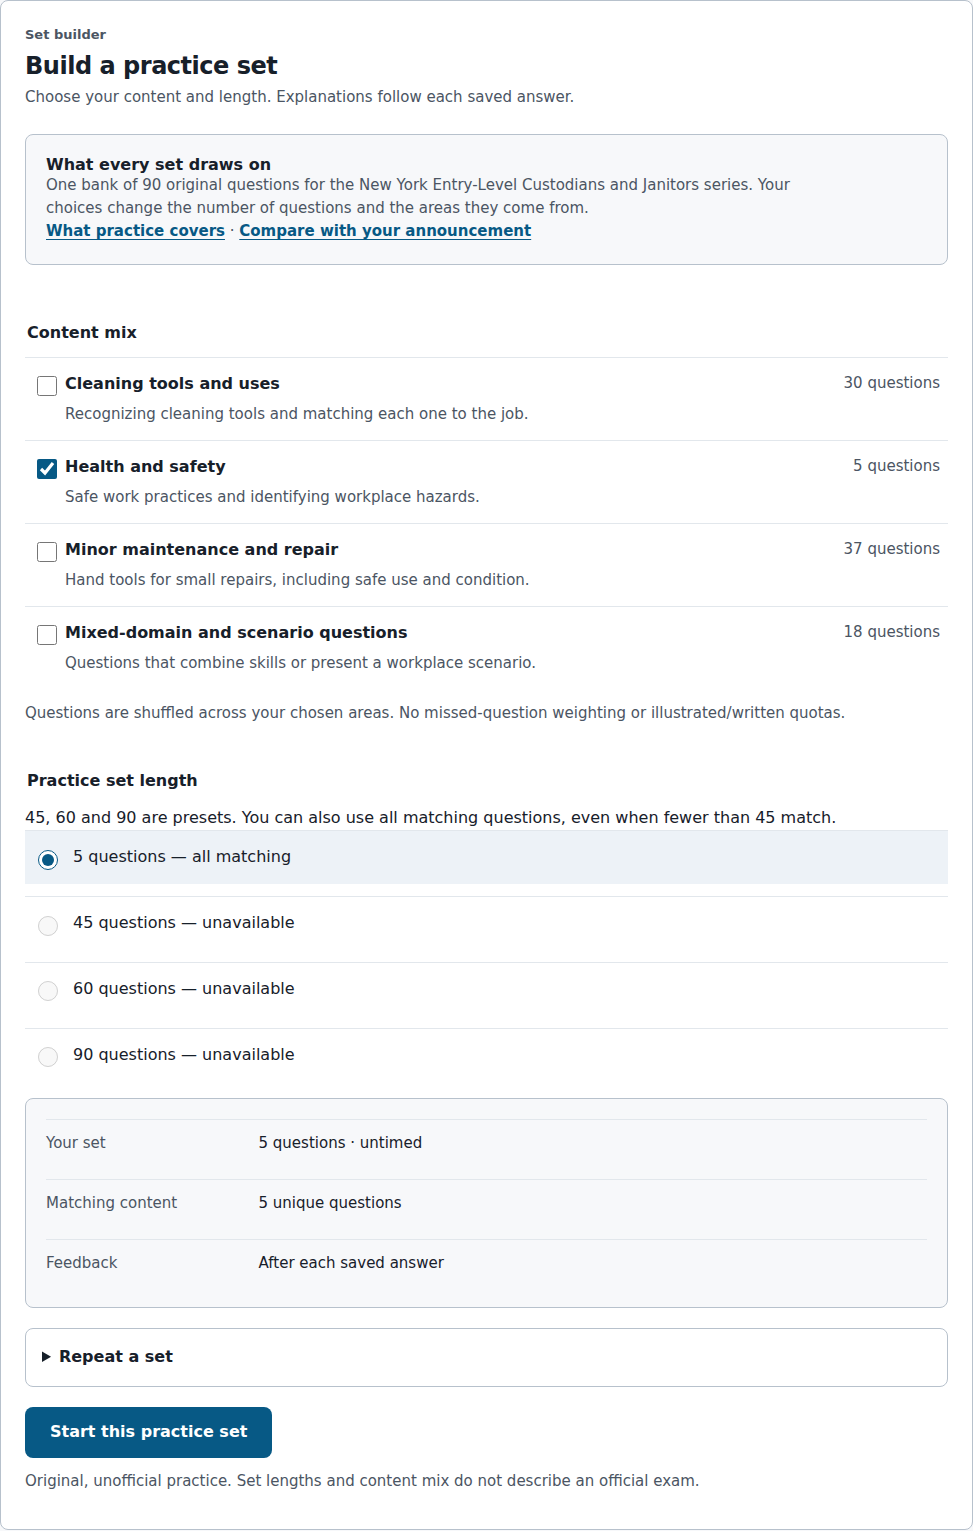
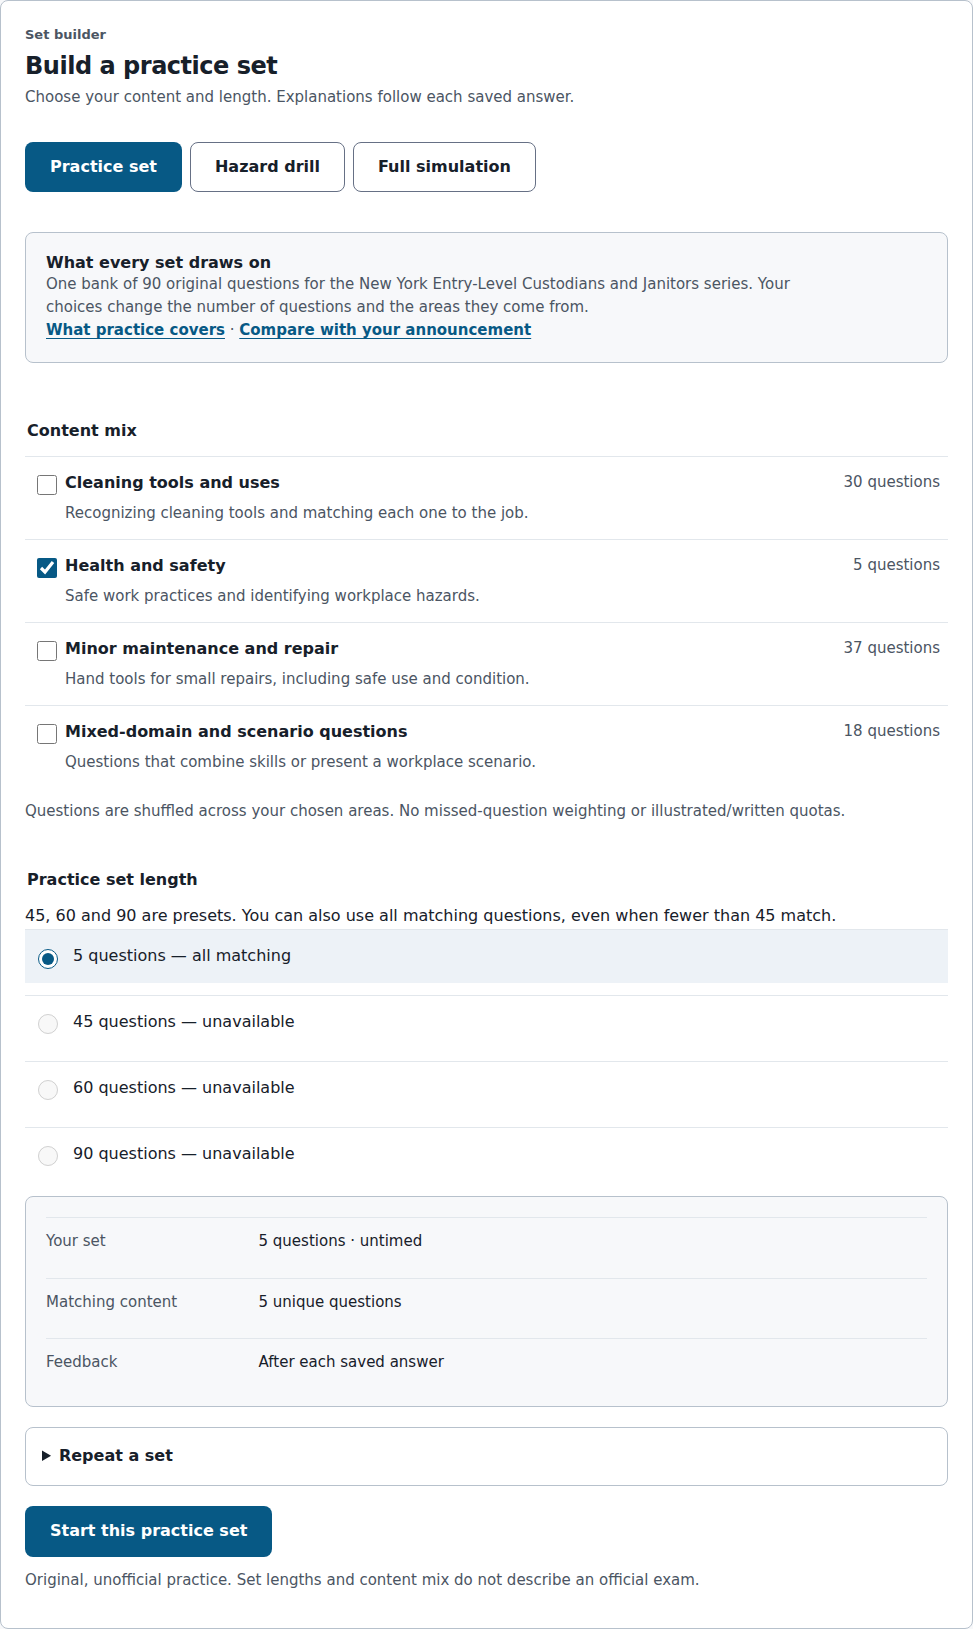
Share setup navigation across Practice, Hazard drill and Simulation

diff --git a/apps/site/scripts/generate-pages.tsx b/apps/site/scripts/generate-pages.tsx
@@ -1,3 +1,4 @@
+import { setupDestinations } from "../src/practice/setup-navigation.ts"
 import { questionCategoryFromSafeMetadata } from "../src/question-category.ts"
 import { ReviewQuestionBootstrap, type ReviewQuestionSource } from "../src/review/model.ts"
 import { createHash } from "node:crypto"
@@ -1505,6 +1506,7 @@ const buildPages = ({
     body: `
   <main class="page-shell" id="main-content" tabindex="-1">
     ${breadcrumb([{ label: "Hazards" }])}
+    <nav class="setup-navigation" aria-label="Practice setup">${setupDestinations.map(({ id, label, href }) => `<a class="button ${id === "hazards" ? "button-primary" : "button-secondary"}" href="${href}"${id === "hazards" ? ' aria-current="page"' : ""}>${label}</a>`).join("")}</nav>
     <section class="hero"><p class="eyebrow">${scenes.length} hazard scenes</p><h1>Scan the whole workplace before you decide.</h1><p>Each scene starts with a neutral description only. Which conditions are hazards — and which are safe as shown — is revealed, with corrections and sources, only after you submit your response.</p><div class="question-controls"><a class="button button-primary" href="/hazards/session/${manifest.releaseId}/scene/1/">Start visual scene 1</a><a class="button button-secondary" href="/hazards/session/${manifest.releaseId}-nonvisual/scene/1/">Start keyboard scene 1 (no image)</a></div></section>
     <section class="section-gap"><h2>Environments in this release</h2><ul class="tag-list">${[...new Set(scenes.map(({ value }) => value.environment))].map((environment) => `<li>${escapeHtml(environment)}</li>`).join("")}</ul></section>
   </main>`

diff --git a/apps/site/browser-tests/practice-builder.pw.ts b/apps/site/browser-tests/practice-builder.pw.ts
@@ -40,3 +40,16 @@ test("an invalid custom set link cannot fall through to a normal answer form", a
   await expect(page.getByRole("heading", { name: "This practice set is unavailable" })).toBeVisible()
   await expect(page.getByRole("button", { name: "Save answer", exact: true })).toHaveCount(0)
 })
+
+test("setup navigation connects Practice, Hazard drill and Simulation with real links", async ({ page }) => {
+  await page.goto("/practice/#practice-builder")
+  const navigation = page.getByRole("navigation", { name: "Practice setup", exact: true })
+  await expect(navigation.getByRole("link", { name: "Practice set", exact: true })).toHaveAttribute("aria-current", "page")
+  await navigation.getByRole("link", { name: "Hazard drill", exact: true }).click()
+  await expect(page).toHaveURL(/\/hazards\/$/)
+  await expect(navigation.getByRole("link", { name: "Hazard drill", exact: true })).toHaveAttribute("aria-current", "page")
+  await navigation.getByRole("link", { name: "Full simulation", exact: true }).click()
+  await expect(navigation.getByRole("link", { name: "Full simulation", exact: true })).toHaveAttribute("aria-current", "page")
+  await navigation.getByRole("link", { name: "Practice set", exact: true }).click()
+  await expect(page.getByRole("region", { name: "Build a practice set" })).toBeVisible()
+})

diff --git a/apps/site/src/practice/builder.tsx b/apps/site/src/practice/builder.tsx
@@ -1,3 +1,4 @@
+import { SetupNavigation } from "./setup-navigation.tsx"
 import { useMemo, useState } from "react"
 import type { ReviewQuestionSource } from "../review/model.ts"
 import { practiceInventoryFromReview } from "./review-source.ts"
@@ -24,6 +25,7 @@ export const PracticeBuilder = ({ sources }: { readonly sources: ReadonlyArray<R
   if (inventory.length === 0) return null
   return <section className="study-section simulation-setup-panel practice-builder" id="practice-builder" aria-labelledby="practice-builder-heading">
     <div className="section-header"><p className="eyebrow">Set builder</p><h2 id="practice-builder-heading">Build a practice set</h2><p>Choose your content and length. Explanations follow each saved answer.</p></div>
+    <SetupNavigation current="practice" />
     <aside className="setup-scope-note"><h3>What every set draws on</h3><p>One bank of {inventory.length} original questions for the New York Entry-Level Custodians and Janitors series. Your choices change the number of questions and the areas they come from.</p><p><a href="#covers">What practice covers</a>{" · "}<a href="/exams/">Compare with your announcement</a></p></aside>
     <form className="simulation-settings" onSubmit={(event) => {
       event.preventDefault()

diff --git a/apps/site/src/simulation/react/setup.tsx b/apps/site/src/simulation/react/setup.tsx
@@ -1,3 +1,4 @@
+import { SetupNavigation } from "../../practice/setup-navigation.tsx"
 import { useEffect, useMemo, useRef, useState } from "react"
 import {
   createLocallyClosedSimulation,
@@ -128,6 +129,7 @@ export const SimulationSetup = ({
   }
 
   return <div className="simulation-setup-panel">
+    <SetupNavigation current="simulation" />
     <section aria-labelledby="simulation-settings-heading" className="reference-card simulation-settings">
       <div className="setup-scope-note">
         <h2>What every set draws on</h2>

diff --git a/apps/site/src/practice/setup-navigation.tsx b/apps/site/src/practice/setup-navigation.tsx
@@ -1,0 +1,8 @@
+import { setupDestinations, type SetupDestination } from "./setup-navigation.ts"
+
+export const SetupNavigation = ({ current }: { readonly current: SetupDestination }) =>
+  <nav className="setup-navigation" aria-label="Practice setup">
+    {setupDestinations.map(({ id, label, href }) => <a key={id} href={href}
+      className={`button ${current === id ? "button-primary" : "button-secondary"}`}
+      aria-current={current === id ? "page" : undefined}>{label}</a>)}
+  </nav>

diff --git a/apps/site/src/practice/setup-navigation.ts b/apps/site/src/practice/setup-navigation.ts
@@ -1,0 +1,6 @@
+export const setupDestinations = [
+  { id: "practice", label: "Practice set", href: "/practice/#practice-builder" },
+  { id: "hazards", label: "Hazard drill", href: "/hazards/" },
+  { id: "simulation", label: "Full simulation", href: "/simulations/" }
+] as const
+export type SetupDestination = typeof setupDestinations[number]["id"]

diff --git a/apps/site/src/player-design.css b/apps/site/src/player-design.css
@@ -289,3 +289,8 @@
     .practice-area-count { grid-column: 2; }
   }
 }
+
+@layer components {
+  .setup-navigation { display: flex; flex-wrap: wrap; gap: 0.5rem; margin-block: 0.5rem 1rem; }
+  .setup-navigation .button { min-block-size: var(--target-default); }
+}

diff --git a/design-review/2026-09-07/IMPLEMENTATION-STATUS.md b/design-review/2026-09-07/IMPLEMENTATION-STATUS.md
@@ -8,7 +8,7 @@ The active task is the complete handoff in `/mnt/models/dev/nycustodianexam/IMPL
 | Home | First-slice comparison gallery and notes | Final visual audit; documented live-content and system-font differences |
 | Practice hub and Review | First-slice real-save/failure captures, durable review regression tests | Final visual audit and mixed-inventory wording as builder is added |
 | Simulation setup | SETUP-ATLAS-REVIEW.md, effective lengths/timing/format; no exam prerequisite | Final integrated capture/checks |
-| Practice/Hazard builder | PRACTICE-BUILDER-REVIEW.md: effective question builder, custom navigation and exact saved-history receipts | Hazard builder, shared mode navigation, final page composition and cross-browser/offline verification |
+| Practice/Hazard builder | PRACTICE-BUILDER-REVIEW.md: effective question builder, custom navigation and exact saved-history receipts | Hazard builder, final page composition and cross-browser/offline verification |
 | Atlas catalog | Nine-family desktop/compact controls, all 65 images, eligibility/failure states | Individual record/family layouts and final comparison |
 | Question player | Existing durable commit-before-reveal preserved | Match unanswered/answered reference captures |
 | Hazard player | Existing real marker/zone state machine preserved | Match controls, feedback, failures and compact adaptation |

diff --git a/design-review/2026-09-07/PRACTICE-BUILDER-REVIEW.md b/design-review/2026-09-07/PRACTICE-BUILDER-REVIEW.md
@@ -35,7 +35,7 @@ new persistence store was introduced.
   mixed/scenario category rather than the prototype's fixture counts.
 
 This is an integrated question builder, not completion of the complete setup
-family. Hazard drill controls and shared setup-mode navigation remain. The
+family. Shared setup-mode navigation now links Practice, Hazard drill and Simulation with real destinations and current-page semantics. Hazard drill controls remain. The
 builder currently sits within Practice; full page composition, all player
 visual states, cross-browser/offline coverage and final fidelity audit remain.
 Its compact composition adapts the established rows; no approved compact
@@ -46,3 +46,8 @@ budget now permits 482000 raw / 144500 gzip / 122000 Brotli bytes; measured
 Settings before the last identity guard was 481058 / 143923 / 121267. This is a
 bounded allowance for the actual feature; answer-bearing content remains
 outside the precommit closure. Final measurements are emitted by the verifier.
+
+Navigation follow-up: root build/artifact verification and all workspace
+typechecks passed. Three Chromium builder tests passed, including traversing
+all three setup destinations. Builder captures were refreshed with the new
+navigation; hazard and simulation visual audits remain part of final review.
